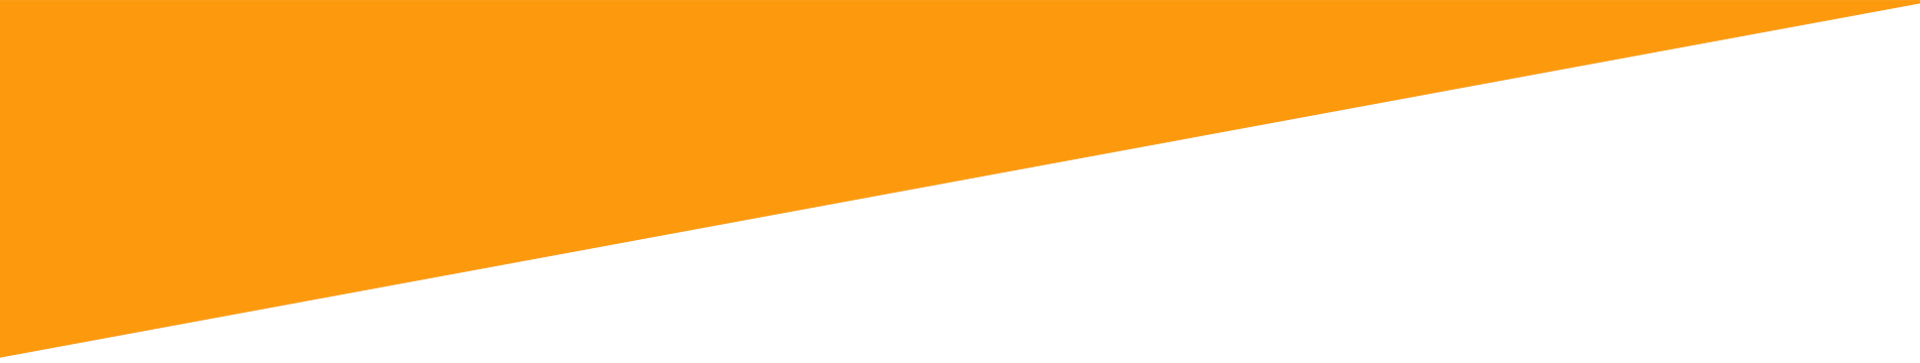
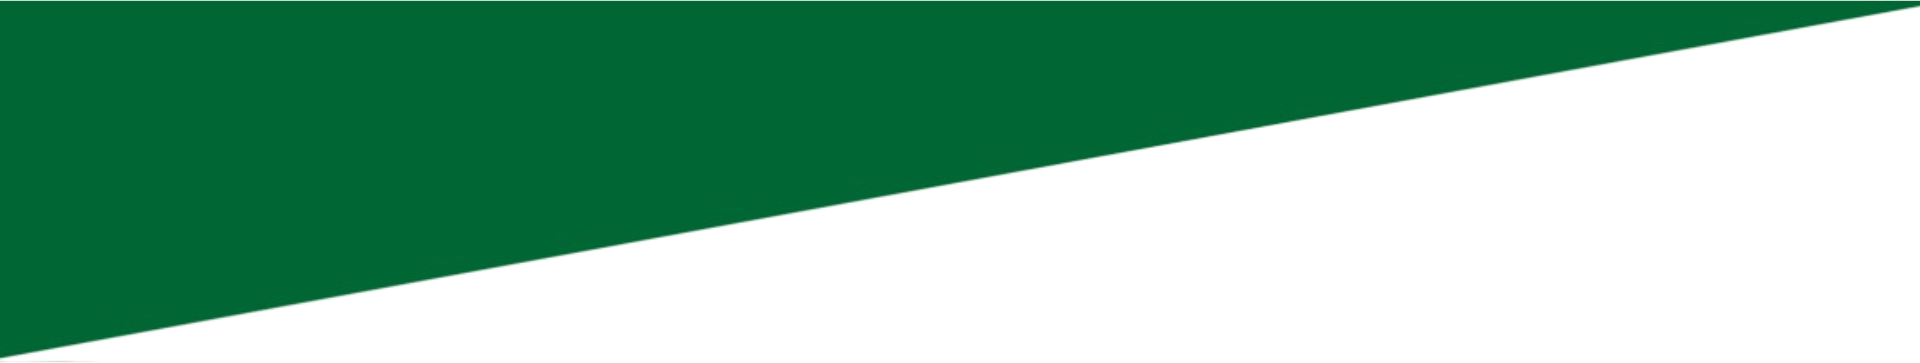
Changed some background colours

diff --git a/index.html b/index.html
@@ -408,7 +408,7 @@
    </div>
 </div>
 </div>
-</div>
+</div> <br><br><br><br>
     </div> 
     </div>
     </div>
@@ -427,14 +427,14 @@
               <img src="images/engrade.png" alt="Mr Justus Augustus Badejo"> <br>
               <h3>CEO/MD</h3>
               <h4>Mr Justus Augustus Badejo</h4> <br><br>
-              <p>Mr Justus Augustus Badejo is a seasoned and widely travelled furniture and wood work specialist.<br> Detailed, meticulous and painstaking by nature, he has cut his teeth in the furniture world through the years, garnering technical and administrative know-how. <br>
+              <p>Mr Justus Augustus Badejo is a seasoned and widely travelled furniture and wood work specialist.<br> Detailed, meticulous and painstaking by nature, he has cut his teeth in the furniture world through the years,<br> garnering technical and administrative know-how. <br>
                <br> 
-            Mr Badejo worked wit Mike Alibert Funiture Works Limited as General Manager from 2000 to 2014.<br> He later joined Agor Homes, a furniture manufacturing firm in Lagos from 2014 to 2021 as a furniture consultant and quality control development specialist. He is a Team player. <br>
+            Mr Badejo worked wit Mike Alibert Funiture Works Limited as General Manager from 2000 to 2014.<br> He later joined Agor Homes, a furniture manufacturing firm in Lagos from 2014 to 2021 as a furniture consultant and<br> quality control development specialist. He is a Team player. <br>
             <br>
             Mr Badejo has lived in Ghana, West Africa, and the United Kingdom, where he further honed his technical skills.<br> 
-         <br> A graduate of Political Science from Ogun State University, Mr Badejo is a lover and breeder of exotic dogs and sundry pets as a hobby. He is happily married </p>
+         <br> A graduate of Political Science from Ogun State University, Mr Badejo is a lover and<br> breeder of exotic dogs and sundry pets as a hobby. He is happily married </p>
             </article>
-    
+    <br><br>
             </div>
          </div>
          </div>
@@ -447,7 +447,7 @@
               <h4>Mr Torezi Anthony Obaro (ANIPR)</h4> <br><br>
               <p>Mr Obaro is a marketer's marketer. He brings his marketing skills<br> and experience to the management team as Marketing/Sales Director <br><br> A graduate of Mass Communications from the Ambrose Alli University,, Ekpoma, Edo State,<br> he has heightened and cross-category experience in marketing, public relations and brand management.<br> He has handled FMCG and high-end luxury brands. <br><br> He loves to engage in charity work, horticulture and copy writing as hobbies. Mr Obaro is happily married.</p>
             </article>
-    
+    <br><br>
             </div>
       <!-- footer -->
       <footer>

diff --git a/css/style.css b/css/style.css
@@ -498,7 +498,7 @@ ul.email li img {
 .read_more {
      display: block;
      background: #8b1310;
-     color: #fff;
+     color: #000080;
      max-width: 224px;
      height: 61px;
      padding: 14px 0px;
@@ -511,7 +511,7 @@ ul.email li img {
 
 .read_more:hover {
      background: #fd990c;
-     color: #fff;
+     color: #000080;
      transition: ease-in all 0.5s;
 }
 
